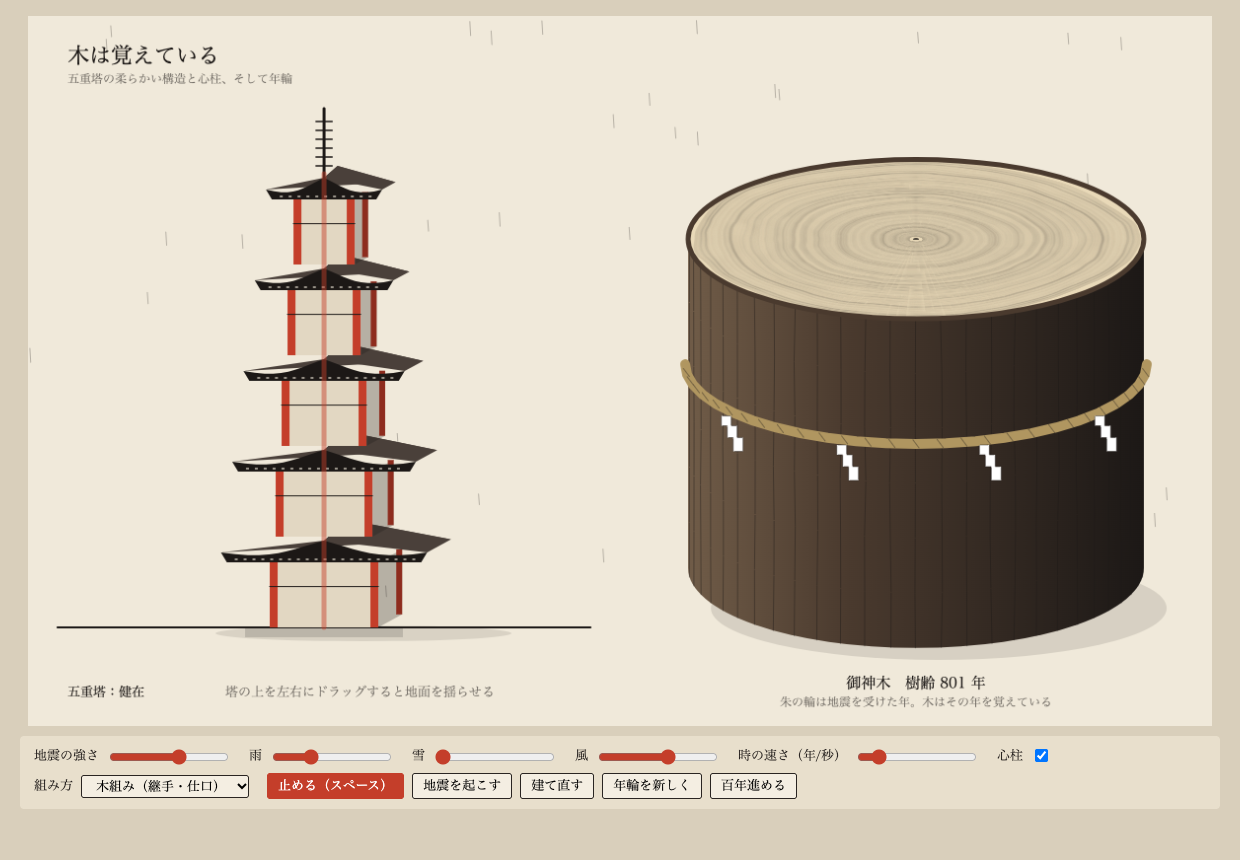
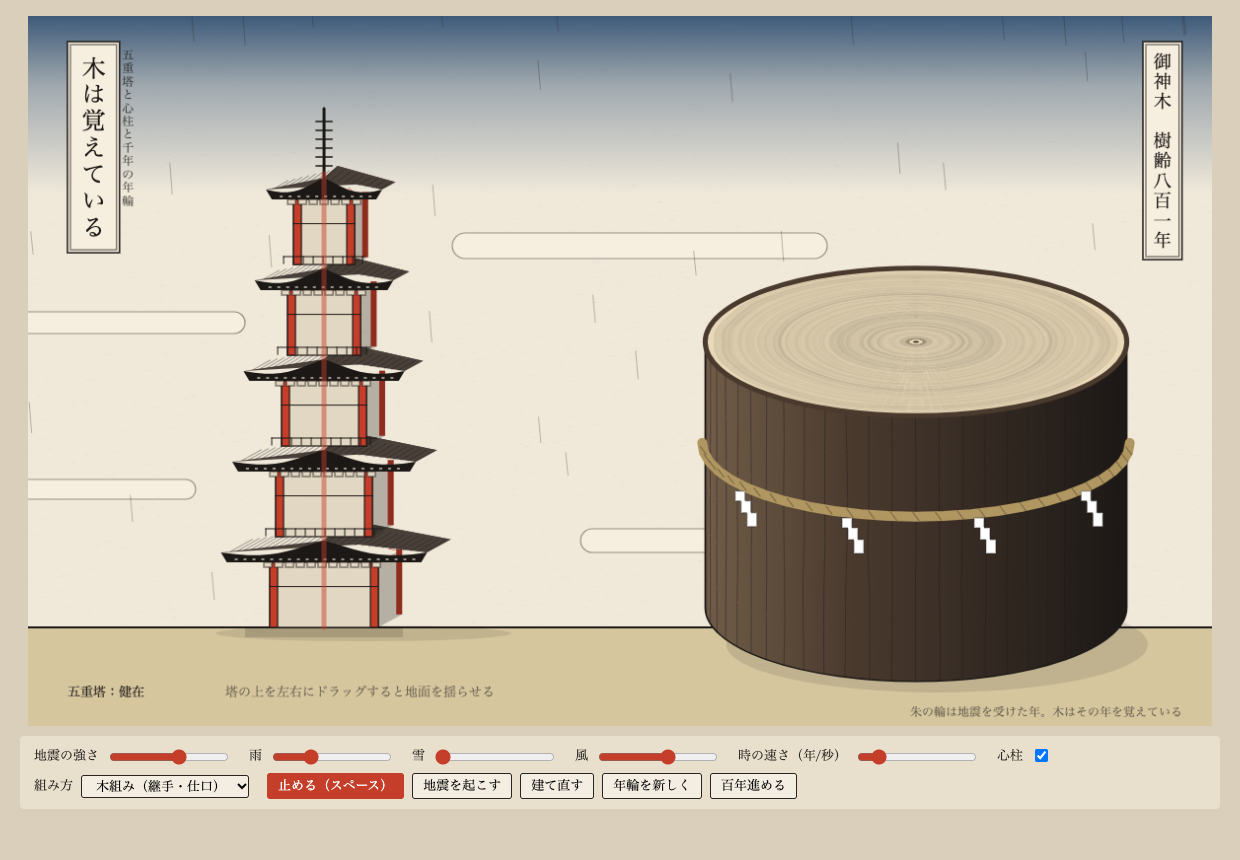
浮世絵の平面と写実を足し、年輪が外周に積み重なる不具合を直す
藍の一文字ぼかし・すやり霞・黄土の地面・和紙の繊維を最初に一度だけ描いて貼る。塗りは平らにして墨の輪郭線を引き、瓦の筋・組物・高欄・春材と晩材の帯を足す。題名と樹齢は縦書きの題箋にし、樹齢は漢数字で出す。雨は細く長い平行線にする。
年輪は半径の上限に達した後も同じ場所へ足し続けていたため、外周に朱の輪が積み重なっていた。目安の半径へ少しずつ引き戻し、地震の後は数年成長を落とす（放射状のひびは描かない）。

diff --git a/works/ki-wa-oboete-iru/sketch.js b/works/ki-wa-oboete-iru/sketch.js
@@ -14,6 +14,8 @@ const INK = [28, 24, 22], SHU = [196, 62, 42], PAPER = [240, 233, 218];
 // 立体にするための色。朱と墨の陰、木口（断面）、樹皮
 const SHU_DARK = [142, 44, 30], WALL = [226, 215, 194], ROOF_TOP = [74, 64, 58];
 const KOGUCHI = [233, 217, 184], BARK = [74, 58, 46], BARK_LIGHT = [112, 92, 72], NAWA = [176, 150, 96];
+const AI = [43, 75, 111], OUDO = [214, 198, 158], KASUMI = [246, 238, 222], LATEWOOD = [176, 142, 98];
+let backdrop;
 const SQ = 0.35;                  // 丸太の上面を斜めから見たときの縦のつぶれ
 
 let paused = false, reducedMotion = false, meter;
@@ -27,7 +29,7 @@ let quakeTime = 0;          // 残りの地震時間（秒）
 let dragShake = 0;
 
 // 年輪
-let rings, ringR = 6, age = 0, yearClock = 0;
+let rings, ringR = 6, age = 0, yearClock = 0, growthDip = 0;
 let yearQuake = 0, yearStorm = 0; // その年に受けた揺れと嵐の大きさ
 const RING_MAX = 250;
 const MAX_AGE = 1000;             // 千年で断面がいっぱいになる
@@ -40,7 +42,8 @@ function setup() {
   pixelDensity(DENSITY);
   frameRate(FPS);
   createCanvas(W, H);
-  textFont('serif');
+  textFont('"Hiragino Mincho ProN", "Yu Mincho", serif'); // 明朝で、版本の文字に寄せる
+  backdrop = makeBackdrop();
   rings = createGraphics(RING_MAX * 2 + 20, RING_MAX * 2 + 20);
   rings.pixelDensity(DENSITY);
   resetTower();
@@ -63,7 +66,7 @@ function resetTower() {
 
 function resetRings() {
   rings.clear();
-  ringR = 6; age = 0;
+  ringR = 6; age = 0; growthDip = 0;
   // 髄（中心）
   rings.noStroke();
   rings.fill(...INK, 200);
@@ -142,7 +145,7 @@ function draw() {
   stepTower(dt);
   stepYears(dt);
 
-  background(...PAPER);
+  image(backdrop, 0, 0); // 空・霞・地面・和紙は最初に一度だけ描いたものを貼る
   drawTitle();
   drawWeather();
   drawTower();
@@ -211,43 +214,54 @@ function stepYears(dt) {
 
 // --- 年輪 ----------------------------------------------------------------------
 function addRing() {
-  if (age >= MAX_AGE) return;
+  if (age >= MAX_AGE) return; // 千年で断面がいっぱい。それ以上は輪を足さない
   age++;
-  // 雨の多い年は太く、雪の多い年・嵐の年は細る（平均がほぼ 1 になる係数）
-  const w = max(0.3, (1.4 + ui.rain.value() * 2.2 - ui.snow.value() * 0.9 - yearStorm * 0.5 + noise(age * 0.3) * 1.2) / 2.5);
-  // 実際の木と同じく、太るほど 1 年の輪は細くなる。千年で断面いっぱいになる曲線（r ∝ 年^0.75）
-  const base = 0.75 * RING_MAX / MAX_AGE * pow(age / MAX_AGE, -0.25);
-  const r = min(RING_MAX - 2, ringR + base * w);
+  // 年輪は中心（髄）が最初の年で、樹皮のすぐ内側の形成層が毎年その外側に新しい輪を足す。
+  // 雨の多い年は太く、雪の多い年・嵐の年は細る（平均がほぼ 1 になる係数）。
+  // 地震で傷んだ木は、その後の数年の成長が落ちる（growthDip）
+  const w = max(0.3, (1.4 + ui.rain.value() * 2.2 - ui.snow.value() * 0.9 - yearStorm * 0.5 + noise(age * 0.3) * 1.2) / 2.5) * (1 - growthDip);
+  // 太るほど 1 年の輪は細くなる。目安の半径は 千年で断面いっぱい（r ∝ 年^0.75）。
+  // 天候で太さは揺れるが、目安から離れすぎないよう少しずつ引き戻す。外周に輪が積み重ならない
+  const target = (RING_MAX - 4) * pow(age / MAX_AGE, 0.75);
+  const prevTarget = (RING_MAX - 4) * pow((age - 1) / MAX_AGE, 0.75);
+  let r = ringR + max(0.05, (target - prevTarget) * w);
+  r = min(RING_MAX - 4, lerp(r, max(target, 6), 0.04));
   const step = r - ringR;
   const cx = rings.width / 2, cy = rings.height / 2;
   const scar = constrain(yearQuake, 0, 3);
+  growthDip = scar > 0.6 ? min(0.6, growthDip + scar * 0.15) : growthDip * 0.8;
   rings.noFill();
-  // 晩材（濃い線）。輪が細い老木では線を淡くし、重なって真っ黒にならないようにする
-  rings.stroke(...(scar > 0.6 ? SHU : INK), scar > 0.6 ? 200 : map(step, 0.15, 1.2, 8, 110, true) * (0.4 + 1.6 * pow(noise(age * 0.07 + 50), 2)) + yearStorm * 40); // 細い輪ほど淡く、気候の波で濃淡の帯を作る
-  rings.strokeWeight(scar > 0.6 ? 1.4 : step < 0.5 ? 0.6 : 0.8);
-  rings.beginShape();
-  for (let a = 0; a < TWO_PI; a += TWO_PI / 140) {
-    const n = noise(cos(a) * 1.3 + 10, sin(a) * 1.3 + 10, r * 0.01);
-    const jag = scar > 0.6 ? (noise(a * 9, age) - 0.5) * scar * 4 : 0;
-    const rr = r * (0.92 + n * 0.16) + jag;
-    rings.vertex(cx + rr * cos(a), cy + rr * sin(a));
+  // 晩材の帯：若い太い輪では、秋に締まった濃い部分を幅のある帯で描く
+  if (step > 0.5 && scar <= 0.6) {
+    rings.stroke(...LATEWOOD, 70);
+    rings.strokeWeight(step * 0.45);
+    ringPath(cx, cy, r - step * 0.2, 0);
   }
-  rings.endShape(CLOSE);
-  // 地震の年は放射状のひび
-  if (scar > 1.2) {
-    const a = random(TWO_PI);
-    rings.stroke(...SHU, 150);
-    rings.line(cx + cos(a) * r * 0.6, cy + sin(a) * r * 0.6, cx + cos(a) * r, cy + sin(a) * r);
-  }
+  // 晩材の境（濃い線）。輪が細い老木では線を淡くし、重なって真っ黒にならないようにする
+  rings.stroke(...(scar > 0.6 ? SHU : INK), scar > 0.6 ? 200 : map(step, 0.15, 1.2, 8, 110, true) * (0.4 + 1.6 * pow(noise(age * 0.07 + 50), 2)) + yearStorm * 40);
+  rings.strokeWeight(scar > 0.6 ? 1.2 : step < 0.5 ? 0.6 : 0.8);
+  ringPath(cx, cy, r, scar);
   ringR = r;
 }
 
+// 1 本の輪の形。幹は真円ではないので、角度ごとにノイズで少し歪める。地震の年は輪が乱れる
+function ringPath(cx, cy, r, scar) {
+  rings.beginShape();
+  for (let a = 0; a < TWO_PI; a += TWO_PI / 140) {
+    const n = noise(cos(a) * 1.3 + 10, sin(a) * 1.3 + 10, r * 0.01);
+    const jag = scar > 0.6 ? (noise(a * 9, age) - 0.5) * scar * 3 : 0;
+    const rr = r * (0.94 + n * 0.08) + jag;
+    rings.vertex(cx + rr * cos(a), cy + rr * sin(a));
+  }
+  rings.endShape(CLOSE);
+}
+
 // 心柱の丸太を斜め上から見る。上面が年輪、側面が樹皮。幹は樹齢とともに太く高くなる
-const LOG_BASE_Y = 560;           // 丸太の底面の中心
+const LOG_BASE_Y = 600;           // 丸太の底面の中心
 function logShape() {
   const rx = ringR + 5;           // 樹皮の厚みを足す
   const ry = rx * SQ;
-  const tall = 40 + ringR * 1.3;
+  const tall = 40 + ringR * 1.1;
   return { rx, ry, top: LOG_BASE_Y - tall, bottom: LOG_BASE_Y };
 }
 
@@ -272,6 +286,7 @@ function drawRings() {
   ctx.lineTo(cx + rx, top);
   ctx.closePath();
   ctx.fill();
+  ctx.strokeStyle = `rgb(${INK})`; ctx.lineWidth = 1.5; ctx.stroke(); // 版画の墨線
   // 樹皮の縦の割れ目。手前の半周だけ、円柱に沿って間隔が詰まる
   stroke(...INK, 110); strokeWeight(1); noFill();
   for (let k = 1; k < 28; k++) {
@@ -296,10 +311,11 @@ function drawRings() {
 
   if (age >= SHINBOKU_AGE) drawShimenawa(cx, rx, ry, lerp(top, bottom, 0.38));
 
-  noStroke(); fill(...INK); textAlign(CENTER); textSize(15);
-  text(`${age >= SHINBOKU_AGE ? '御神木' : '心柱の木'}　樹齢 ${age} 年`, cx, 682);
-  textSize(12); fill(...INK, 150);
-  text('朱の輪は地震を受けた年。木はその年を覚えている', cx, 700);
+  // 題箋（右上）。樹齢は漢数字の縦書き
+  drawCartouche(W - 70, 26, `${age >= SHINBOKU_AGE ? '御神木' : '心柱の木'}　樹齢${kanjiNumber(age)}年`, 18);
+  noStroke(); fill(...INK, 160); textAlign(RIGHT, BASELINE); textSize(12);
+  text('朱の輪は地震を受けた年。木はその年を覚えている', W - 30, 710);
+  textAlign(LEFT, BASELINE);
 }
 
 // 注連縄と紙垂。幹の手前の半周に縄を巻き、白い紙垂を垂らす
@@ -360,11 +376,22 @@ function drawTower() {
     fill(...SHU_DARK);
     quad(bw / 2 + dx - 6, -sh + 26 + dy, bw / 2 + dx, -sh + 26 + dy, bw / 2 + dx, dy, bw / 2 + dx - 6, dy);
     // 正面の壁（塊に見せる）と柱（朱）
+    // 平らな塗りに墨の輪郭線（浮世絵の主版）
+    stroke(...INK); strokeWeight(1.2);
     fill(...WALL);
     rect(-bw / 2, -sh + 26, bw, sh - 26);
     fill(...SHU);
     rect(-bw / 2, -sh + 26, 8, sh - 26);
     rect(bw / 2 - 8, -sh + 26, 8, sh - 26);
+    // 高欄（二層目から上）：縁の手すりと束
+    if (i > 0) {
+      strokeWeight(1);
+      line(-bw / 2 - 10, -8, bw / 2 + 10, -8);
+      for (let px = -bw / 2 - 10; px <= bw / 2 + 10; px += 10) line(px, -8, px, -1);
+    }
+    // 組物：軒を支える斗栱を、軒下に並ぶ小さな升で見せる
+    fill(...WALL); strokeWeight(0.8);
+    for (let kx = -bw / 2 - 6; kx < bw / 2 + 2; kx += 11) rect(kx, -sh + 26, 8, 5);
     // 貫
     stroke(...INK); strokeWeight(1);
     line(-bw / 2, -sh * 0.45, bw / 2, -sh * 0.45);
@@ -388,6 +415,13 @@ function drawTower() {
     vertex(ew / 2 - 6, -sh + 26);
     vertex(-ew / 2 + 6, -sh + 26);
     endShape(CLOSE);
+    // 瓦の筋：屋根の上面に、奥へ向かう平行線を刻む
+    stroke(...INK, 120); strokeWeight(0.8);
+    for (let tx = -ew / 2 + 10; tx < ew / 2; tx += 7) {
+      const fy = -sh + 16 - (1 - abs(tx) / (ew / 2)) * 11;
+      line(tx, fy, tx + dx * 0.9, fy + dy * 0.9 - (1 - abs(tx) / (ew / 2)) * 3);
+    }
+    noStroke();
     // 垂木の小口：軒先に並ぶ小さな明るい点で、軒の厚みを見せる
     fill(...PAPER, 150);
     for (let rx = -ew / 2 + 14; rx < ew / 2 - 12; rx += 9) rect(rx, -sh + 22, 3, 2);
@@ -449,7 +483,7 @@ function drawWeather() {
     }
     if (d.y > 620 || d.x < -20 || d.x > W + 20) Object.assign(d, newDrop(-10));
     if (d.snow) { noStroke(); fill(...INK, d.slide ? 60 : 120); circle(d.x, d.y, 3); }
-    else { stroke(...(d.slide ? SHU : INK), d.slide ? 160 : 70); line(d.x, d.y, d.x - d.vx, d.y - d.vy * 1.4); }
+    else { stroke(...(d.slide ? SHU : INK), d.slide ? 160 : 70); line(d.x, d.y, d.x - d.vx * 3, d.y - d.vy * 3.2); } // 広重の雨のように細く長い平行線
   }
 }
 
@@ -468,10 +502,75 @@ function eaveLines() {
 }
 
 function drawTitle() {
-  noStroke(); fill(...INK); textAlign(LEFT); textSize(22);
-  text('木は覚えている', 40, 48);
-  textSize(12); fill(...INK, 150);
-  text('五重塔の柔らかい構造と心柱、そして年輪', 40, 68);
+  // 題箋（左上）。浮世絵の題名の札のように、縦書きで枠に入れる
+  drawCartouche(40, 26, '木は覚えている', 24);
+  drawCartouche(88, 26, '五重塔と心柱と千年の年輪', 12, true);
+}
+
+// 縦書きの札。淡い地に墨の二重枠
+function drawCartouche(x, y, str, size, plain = false) {
+  const chars = [...str];
+  const pad = size * 0.6, step = size * 1.12;
+  const w = size + pad * 2, h = chars.length * step + pad * 2 - (step - size);
+  if (!plain) {
+    fill(...KASUMI); stroke(...INK); strokeWeight(1.5);
+    rect(x, y, w, h);
+    noFill(); strokeWeight(0.8);
+    rect(x + 3, y + 3, w - 6, h - 6);
+  }
+  noStroke(); fill(...INK, plain ? 200 : 255); textSize(size); textAlign(CENTER, TOP);
+  chars.forEach((c, i) => {
+    if (c === '　') return;
+    text(c, x + w / 2, y + pad + i * step);
+  });
+  textAlign(LEFT, BASELINE);
+}
+
+// 1000 までの数を漢数字にする（樹齢の題箋用）
+function kanjiNumber(n) {
+  if (n === 0) return '〇';
+  const d = '〇一二三四五六七八九';
+  let out = '';
+  const th = floor(n / 1000), h = floor(n / 100) % 10, t = floor(n / 10) % 10, o = n % 10;
+  if (th) out += (th > 1 ? d[th] : '') + '千';
+  if (h) out += (h > 1 ? d[h] : '') + '百';
+  if (t) out += (t > 1 ? d[t] : '') + '十';
+  if (o) out += d[o];
+  return out;
+}
+
+// 背景。最初に一度だけ描いて、毎フレームは貼るだけにする
+function makeBackdrop() {
+  const g = createGraphics(W, H);
+  g.pixelDensity(DENSITY);
+  g.background(...PAPER);
+  // 和紙の繊維：短い横向きの淡い筋
+  g.noStroke();
+  randomSeed(7);
+  for (let i = 0; i < 4000; i++) {
+    g.fill(...INK, random(3, 10));
+    g.rect(random(W), random(H), random(2, 6), 0.8);
+  }
+  // 一文字ぼかし：空の上端を藍で刷り、下へ消していく
+  const c = g.drawingContext;
+  const grad = c.createLinearGradient(0, 0, 0, 180);
+  grad.addColorStop(0, `rgba(${AI}, 0.9)`);
+  grad.addColorStop(0.4, `rgba(${AI}, 0.4)`);
+  grad.addColorStop(1, `rgba(${AI}, 0)`);
+  c.fillStyle = grad;
+  c.fillRect(0, 0, W, 180);
+  // すやり霞：平らな帯を墨の輪郭で
+  g.fill(...KASUMI); g.stroke(...INK, 110); g.strokeWeight(1.2);
+  for (const [x, y, w, h] of [[430, 220, 380, 26], [-30, 300, 250, 22], [560, 520, 360, 24], [-30, 470, 200, 20]]) {
+    g.rect(x, y, w, h, h / 2);
+  }
+  // 地面：黄土の平らな帯
+  g.noStroke(); g.fill(...OUDO);
+  g.rect(0, 620, W, H - 620);
+  g.stroke(...INK); g.strokeWeight(2);
+  g.line(0, 620, W, 620);
+  randomSeed(Date.now());
+  return g;
 }
 
 // --- 操作 -------------------------------------------------------------------------
